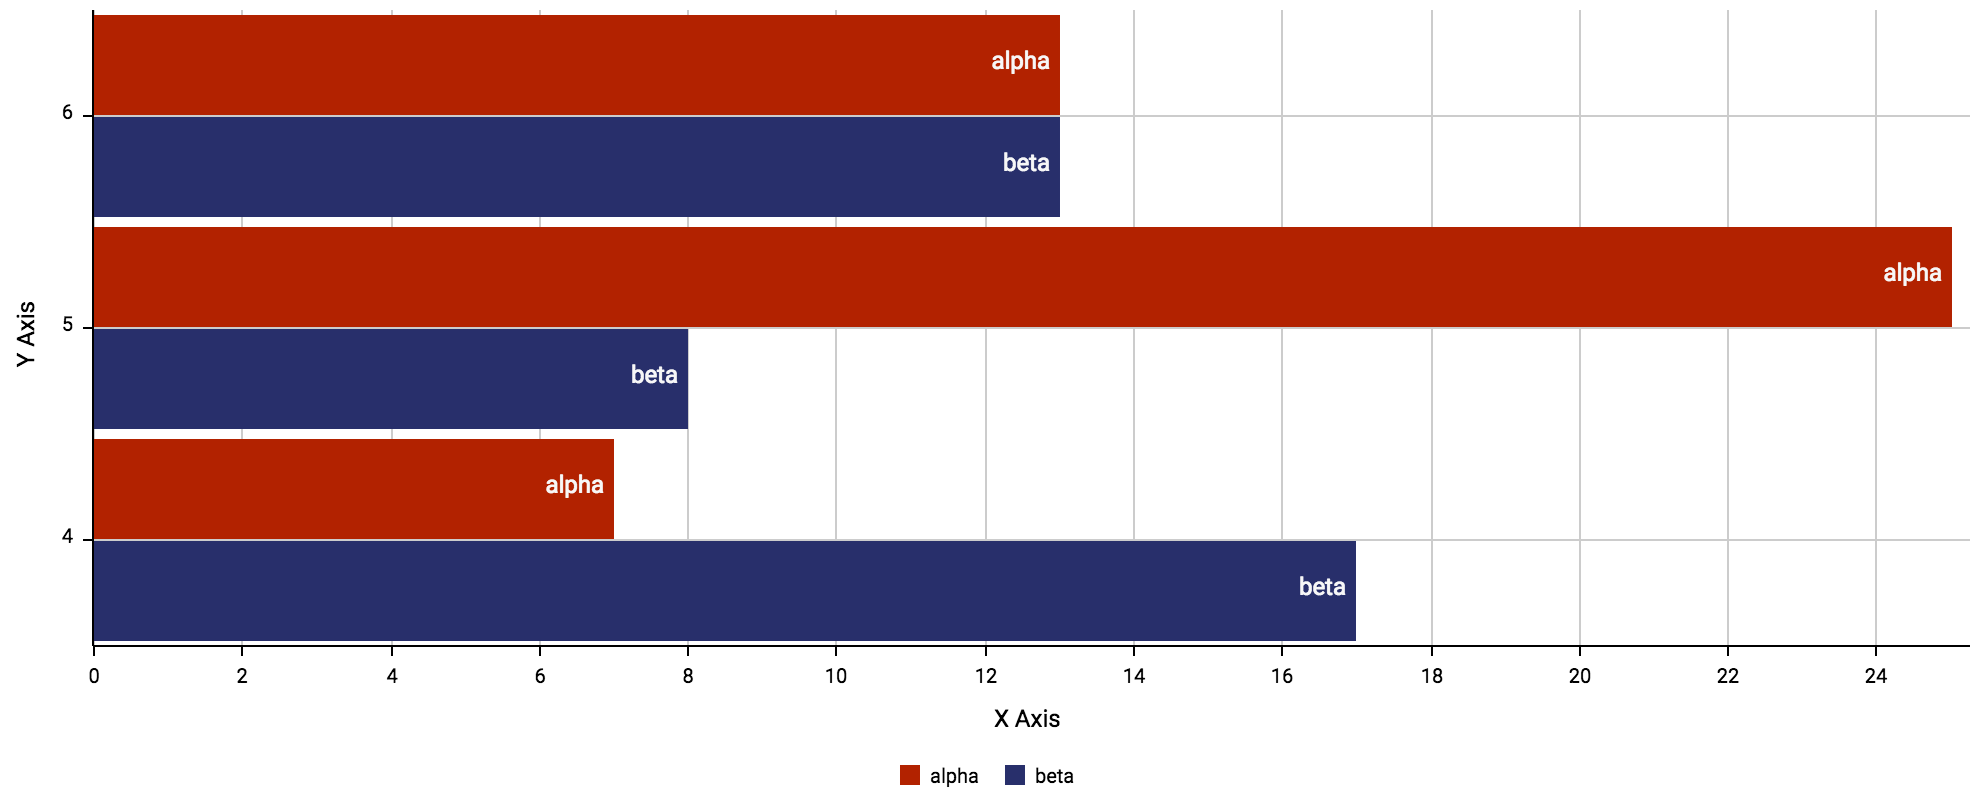
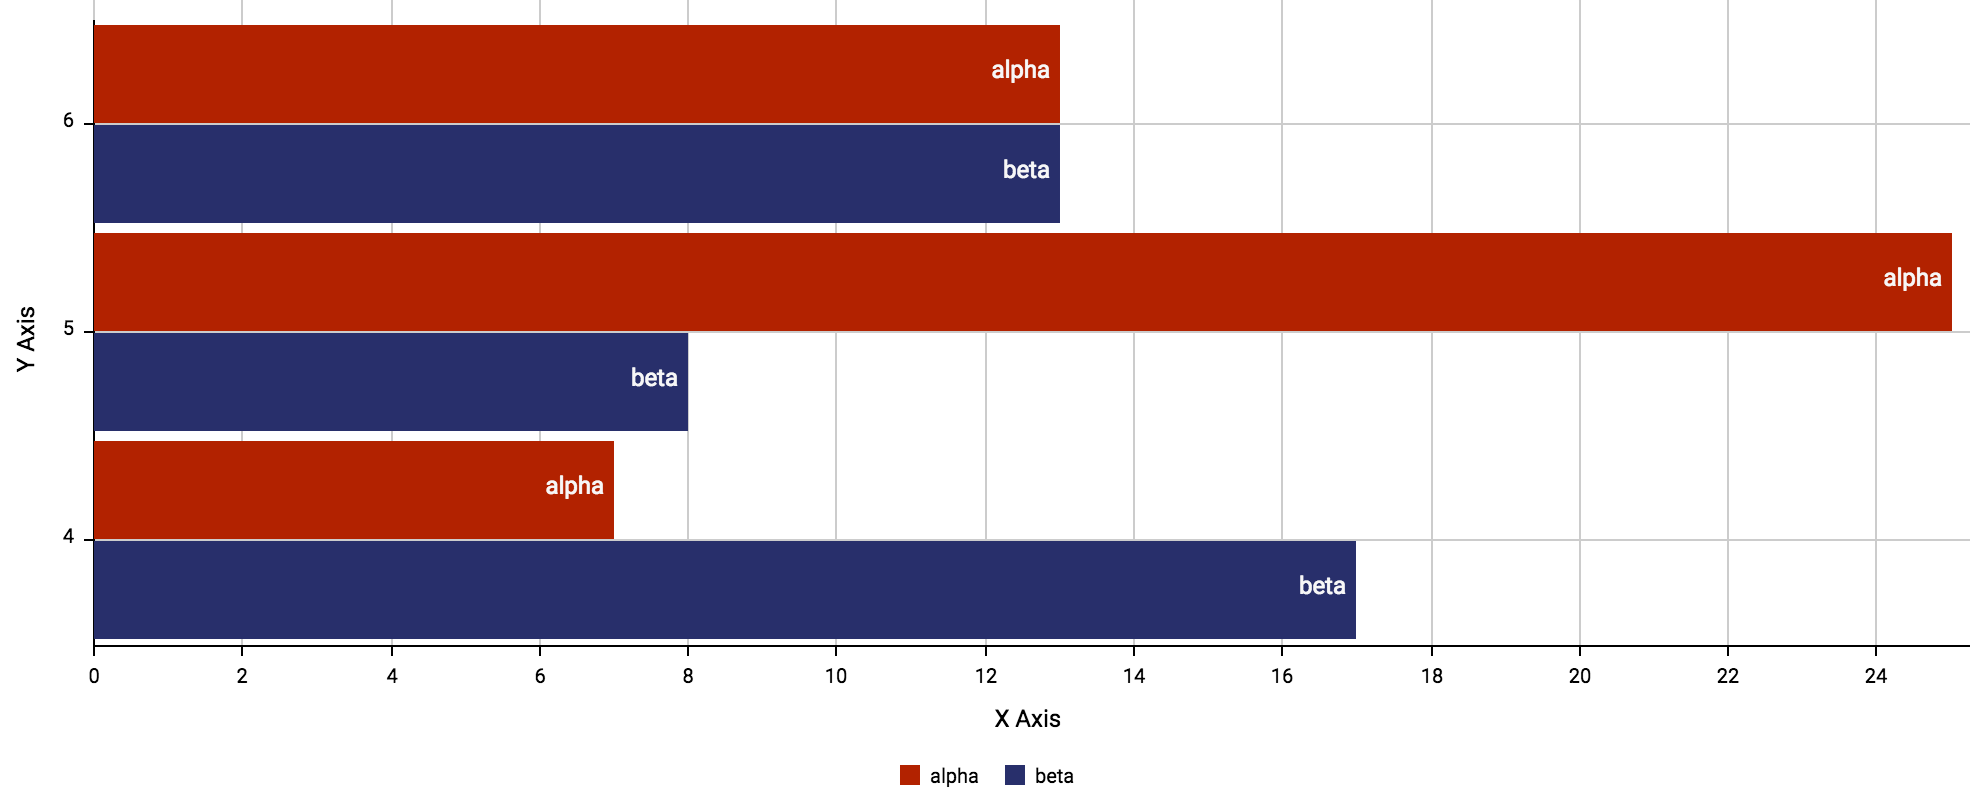
d3plus-plot examples

diff --git a/_examples/d3plus-plot/bar-chart-horizontal/embed.html b/_examples/d3plus-plot/bar-chart-horizontal/embed.html
@@ -4,7 +4,7 @@
 <head>
 
   <meta charset="utf-8">
-  <script src="https://d3plus.org/js/d3plus-plot.v0.5.full.min.js"></script>
+  <script src="https://d3plus.org/js/d3plus-plot.v0.6.full.min.js"></script>
 
   <style>
 

diff --git a/_examples/d3plus-plot/bar-chart-horizontal/index.md b/_examples/d3plus-plot/bar-chart-horizontal/index.md
@@ -2,8 +2,8 @@
 title: Horizontal Bar Chart
 width: 990
 height: 400
-time: 1504199304711
-date: August 31, 2017
+time: 1521226773281
+date: March 16, 2018
 ---
 
 # Horizontal Bar Chart

diff --git a/_examples/d3plus-plot/line-plot-strokeWidth/index.md b/_examples/d3plus-plot/line-plot-strokeWidth/index.md
@@ -2,7 +2,7 @@
 title: Changing the Stroke Width of a Line Plot
 width: 990
 height: 400
-time: 1521226630587
+time: 1521226773281
 date: March 16, 2018
 ---
 

diff --git a/_examples/d3plus-plot/stacked-area-flip/index.md b/_examples/d3plus-plot/stacked-area-flip/index.md
@@ -2,7 +2,7 @@
 title: Horizontal Stacked Area Chart
 width: 990
 height: 400
-time: 1521226630587
+time: 1521226773281
 date: March 16, 2018
 ---
 

diff --git a/_examples/d3plus-plot/axis-config/index.md b/_examples/d3plus-plot/axis-config/index.md
@@ -2,7 +2,7 @@
 title: Advanced Axis Configuration
 width: 990
 height: 400
-time: 1521226630587
+time: 1521226773281
 date: March 16, 2018
 ---
 

diff --git a/_examples/d3plus-plot/bubble-plot/index.md b/_examples/d3plus-plot/bubble-plot/index.md
@@ -2,7 +2,7 @@
 title: Scatter Plot/Bubble Chart
 width: 990
 height: 400
-time: 1521226630587
+time: 1521226773281
 date: March 16, 2018
 ---
 

diff --git a/_examples/d3plus-plot/annotations/index.md b/_examples/d3plus-plot/annotations/index.md
@@ -2,7 +2,7 @@
 title: Custom Chart Annotations
 width: 990
 height: 400
-time: 1521226630587
+time: 1521226773281
 date: March 16, 2018
 ---
 

diff --git a/_examples/d3plus-plot/bar-chart-padding/index.md b/_examples/d3plus-plot/bar-chart-padding/index.md
@@ -2,7 +2,7 @@
 title: Custom Bar Chart Padding
 width: 990
 height: 400
-time: 1521226630587
+time: 1521226773281
 date: March 16, 2018
 ---
 

diff --git a/_examples/d3plus-plot/grid-config/index.md b/_examples/d3plus-plot/grid-config/index.md
@@ -2,7 +2,7 @@
 title: Changing Grid Styles
 width: 990
 height: 400
-time: 1521226630587
+time: 1521226773281
 date: March 16, 2018
 ---
 

diff --git a/_examples/d3plus-plot/stacked-area/index.md b/_examples/d3plus-plot/stacked-area/index.md
@@ -2,7 +2,7 @@
 title: Stacked Area Chart
 width: 990
 height: 400
-time: 1521226630587
+time: 1521226773281
 date: March 16, 2018
 ---
 

diff --git a/_examples/d3plus-plot/bar-chart-stacked/index.md b/_examples/d3plus-plot/bar-chart-stacked/index.md
@@ -2,7 +2,7 @@
 title: Stacked Bar Chart
 width: 990
 height: 400
-time: 1521226630587
+time: 1521226773281
 date: March 16, 2018
 ---
 

diff --git a/_examples/d3plus-plot/getting-started/index.md b/_examples/d3plus-plot/getting-started/index.md
@@ -2,7 +2,7 @@
 title: Simple X/Y Plot
 width: 990
 height: 400
-time: 1521226630587
+time: 1521226773281
 date: March 16, 2018
 ---
 
